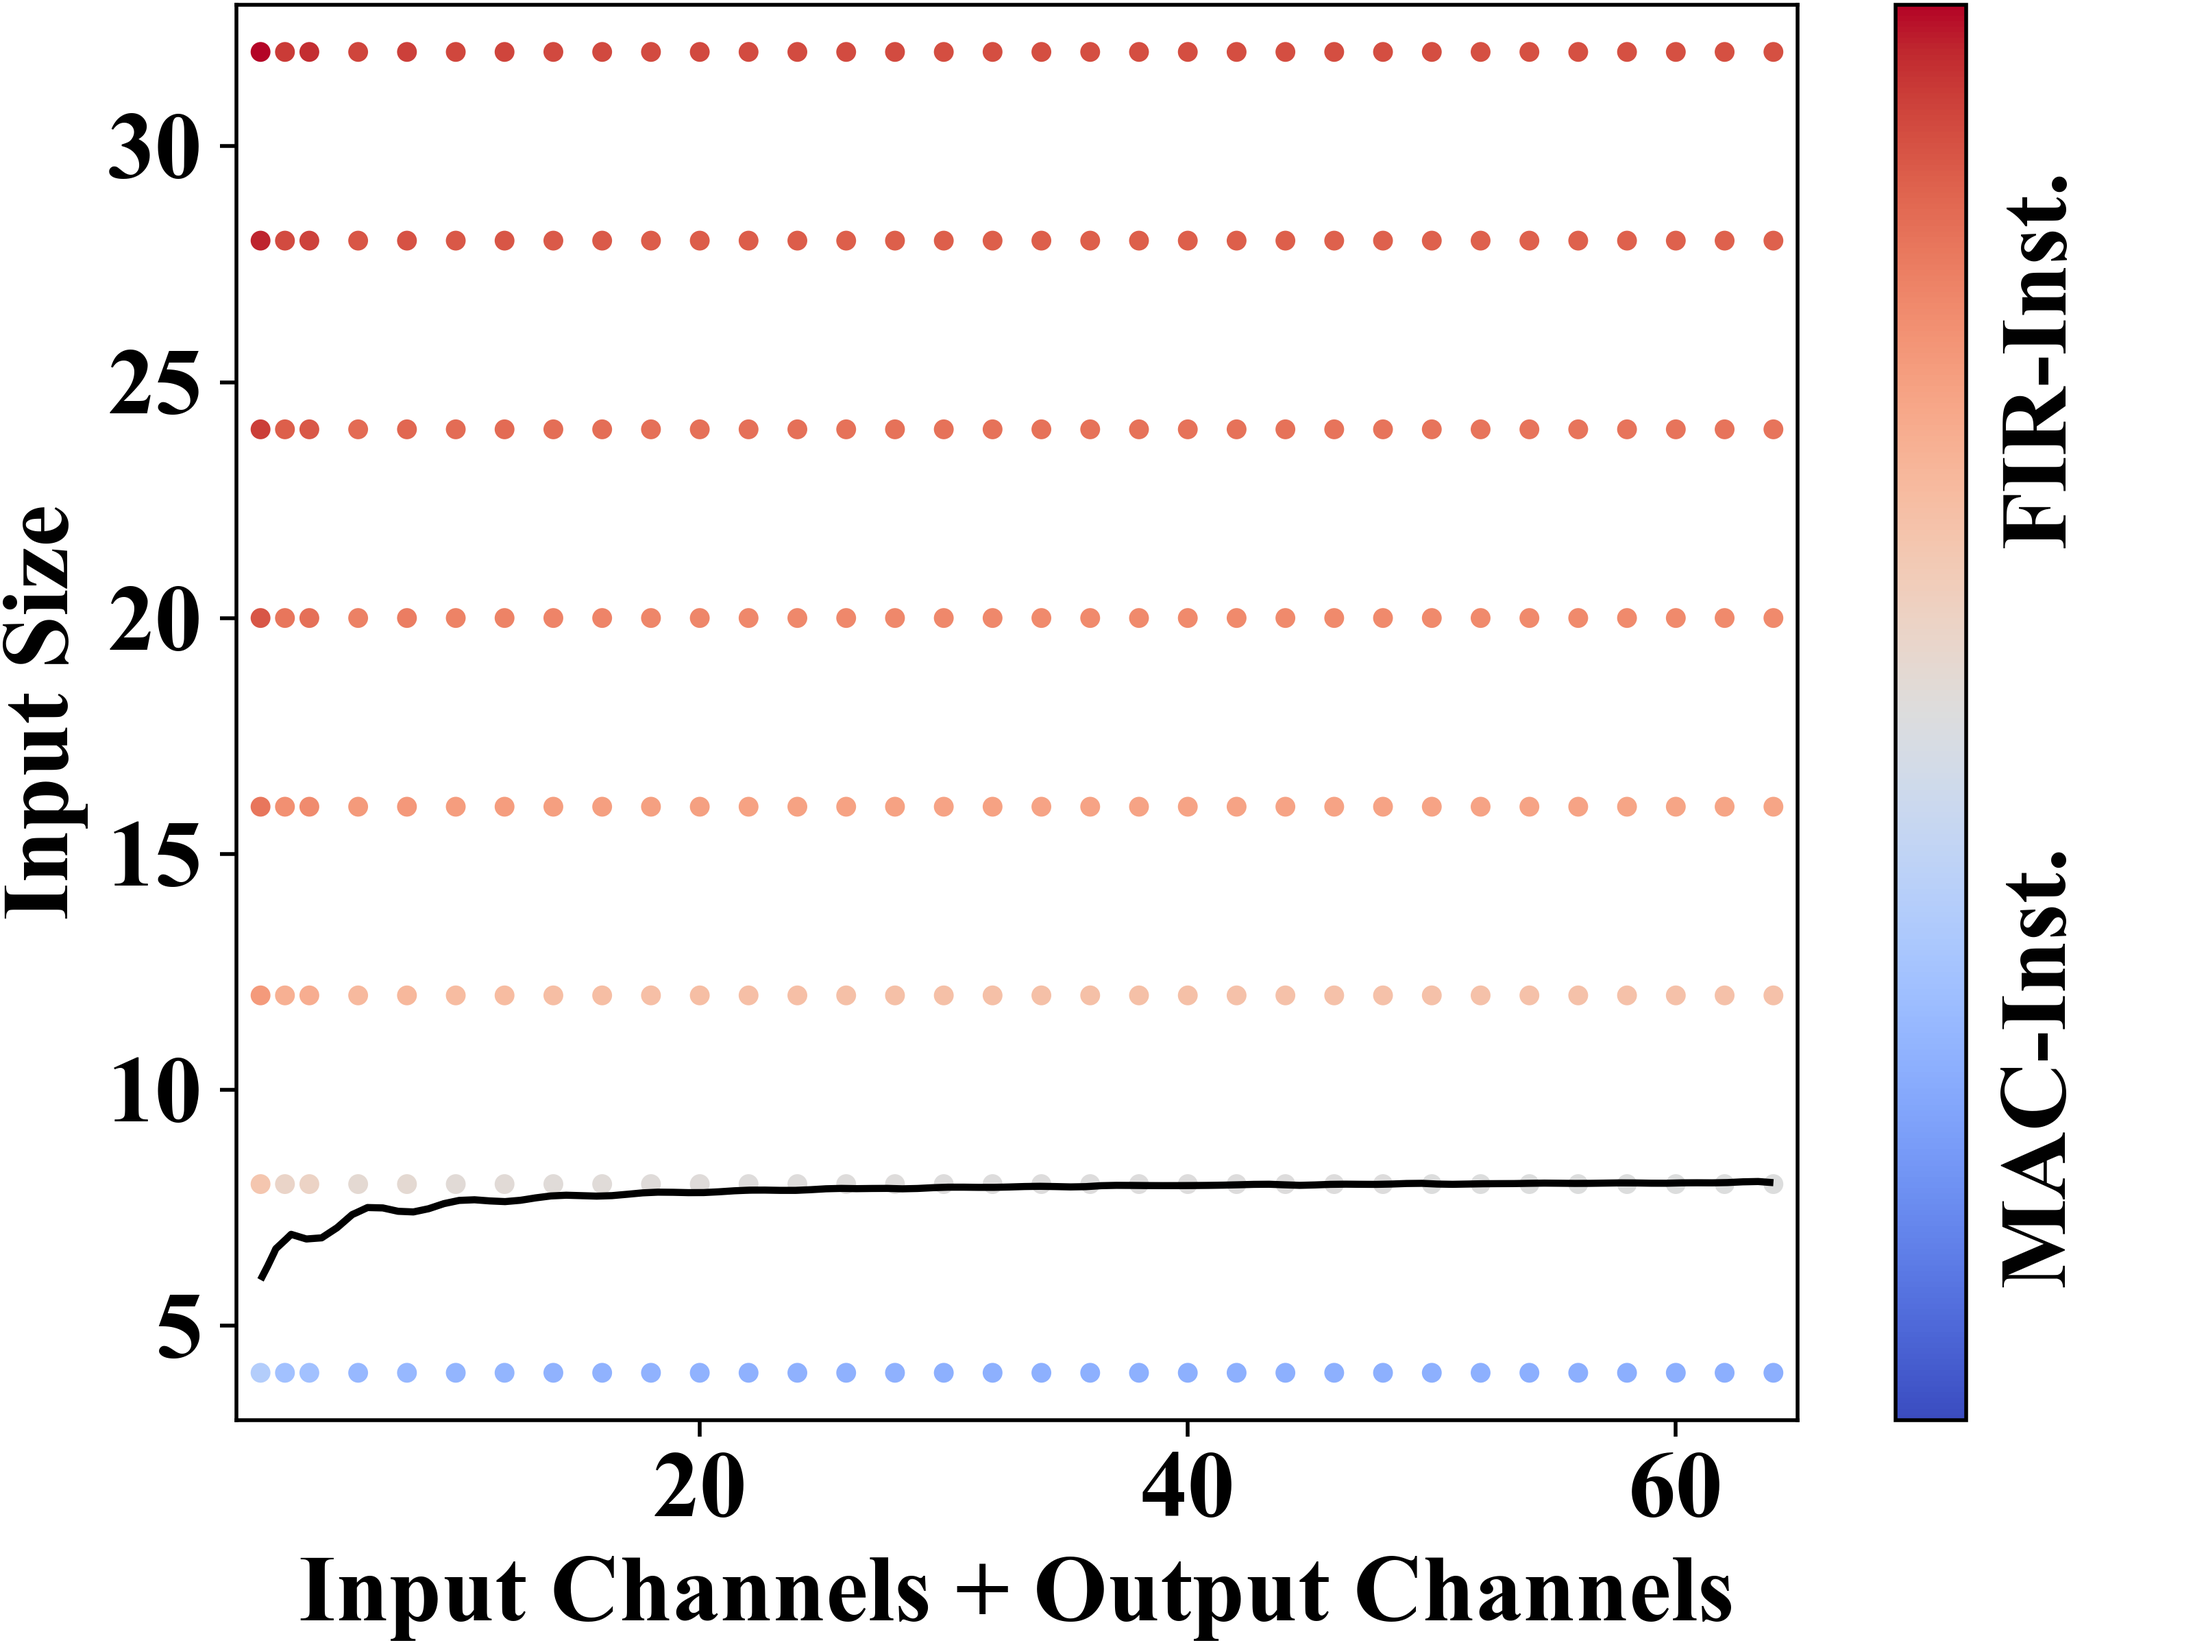
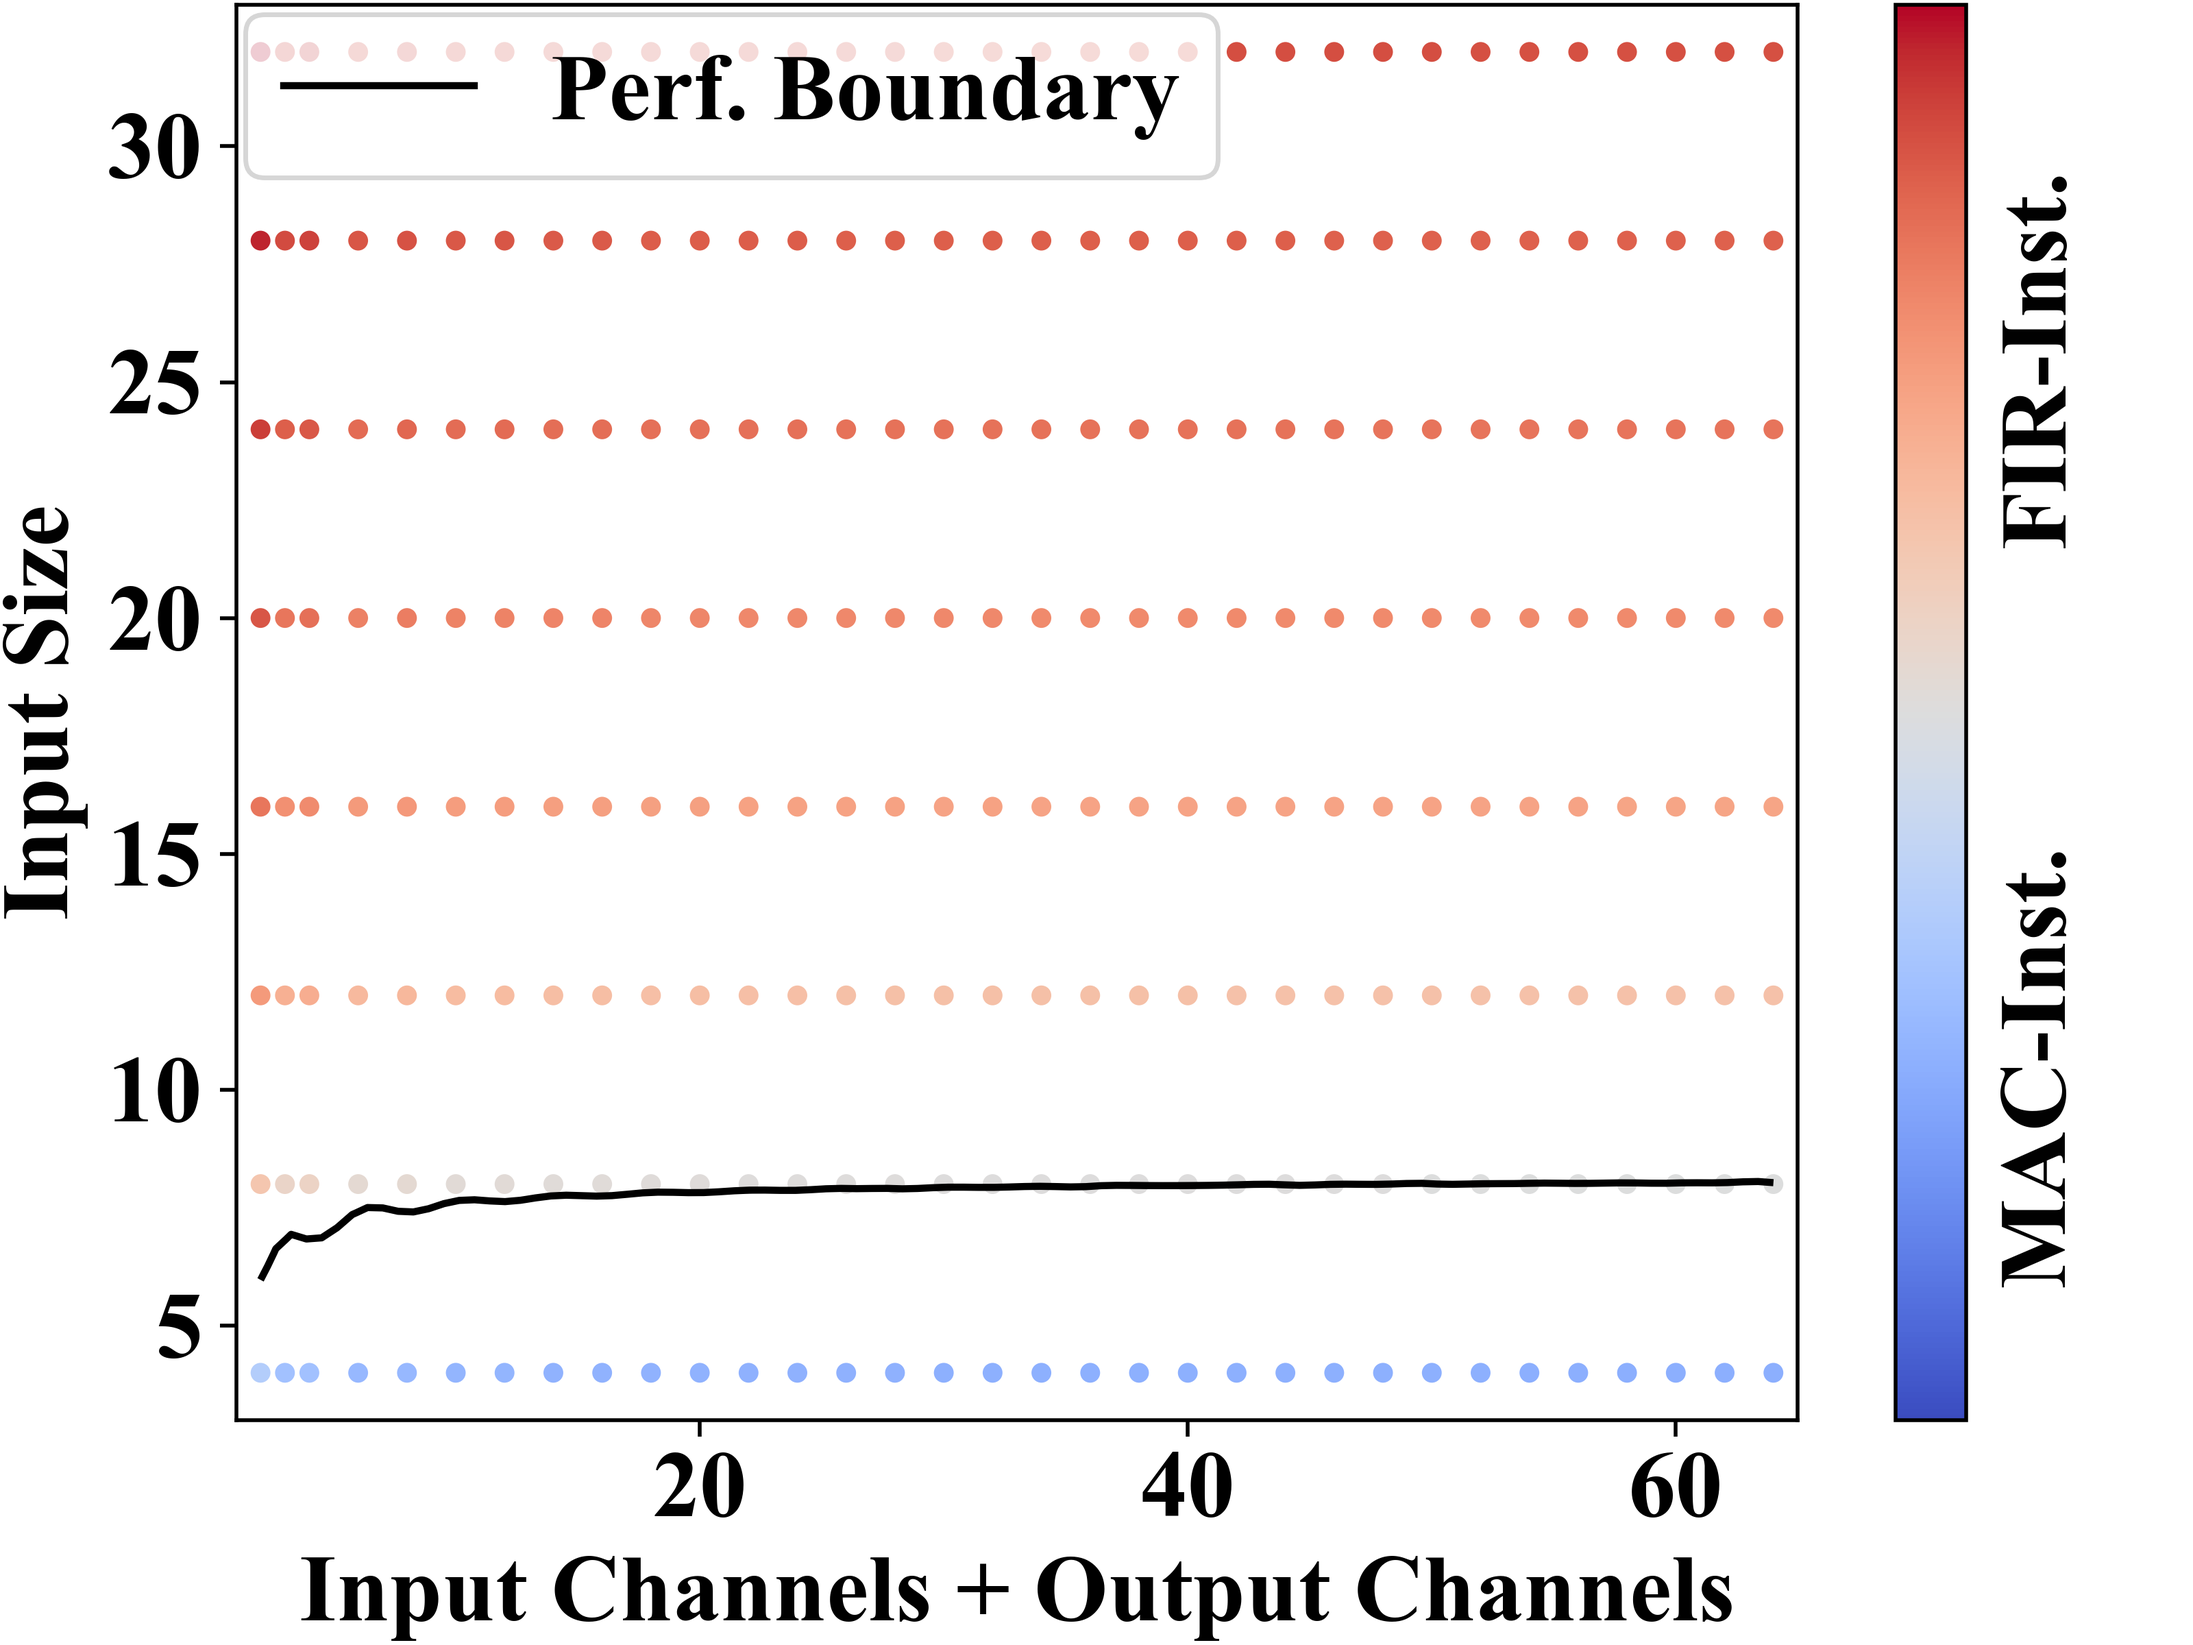
update plot

Changed region(s): [[0.0938, 0.0, 0.5625, 0.0938]]

diff --git a/apps/conv_bench_no_opt/logs/size_plot.py b/apps/conv_bench_no_opt/logs/size_plot.py
@@ -2,6 +2,7 @@ import re
 from math import log2
 
 import matplotlib.pyplot as plt
+import matplotlib.lines as mlines
 import seaborn as sns
 import pandas as pd
 import numpy as np
@@ -67,6 +68,7 @@ scatter.set_clim(-val, val)
 cbar.set_ticks([])
 
 contour = plt.contour(xi, yi, zi, levels=[0], colors='black', linewidths=1.5)
+custom_contour = mlines.Line2D([], [], color='black', linestyle='-', label='Perf. Boundary')
 
 plt.ylabel('Input Size')
 plt.xlabel('Input Channels + Output Channels')
@@ -76,6 +78,8 @@ plt.text(1.05 + 0.08, 0.75, 'FIR-Inst.', transform=plt.gca().transAxes, fontsize
 
 plt.xlim(x.min() - 1, x.max() + 1)
 plt.ylim(y.min() - 1, y.max() + 1)
+
+plt.legend(handles=[custom_contour], loc='upper left', bbox_to_anchor=(0, 1), borderaxespad=0.1, fontsize=20)
 
 fig.tight_layout(pad=0.05)
 plt.savefig(f'figures/fir_vs_mac_{kernel_size}_no_opt.png', dpi=500)

diff --git a/apps/conv_bench/logs/size_plot.py b/apps/conv_bench/logs/size_plot.py
@@ -2,6 +2,7 @@ import re
 from math import log2
 
 import matplotlib.pyplot as plt
+import matplotlib.lines as mlines
 import seaborn as sns
 import pandas as pd
 import numpy as np
@@ -67,6 +68,7 @@ scatter.set_clim(-val, val)
 cbar.set_ticks([])
 
 contour = plt.contour(xi, yi, zi, levels=[0], colors='black', linewidths=1.5)
+custom_contour = mlines.Line2D([], [], color='black', linestyle='-', label='Perf. Boundary')
 
 plt.ylabel('Input Size')
 plt.xlabel('Input Channels + Output Channels')
@@ -76,6 +78,8 @@ plt.text(1.05 + 0.08, 0.75, 'FIR-Inst.', transform=plt.gca().transAxes, fontsize
 
 plt.xlim(x.min() - 1, x.max() + 1)
 plt.ylim(y.min() - 1, y.max() + 1)
+
+plt.legend(handles=[custom_contour], loc='upper left', bbox_to_anchor=(0, 1), borderaxespad=0.1, fontsize=20)
 
 fig.tight_layout(pad=0.05)
 plt.savefig(f'figures/fir_vs_mac_{kernel_size}.png', dpi=500)
